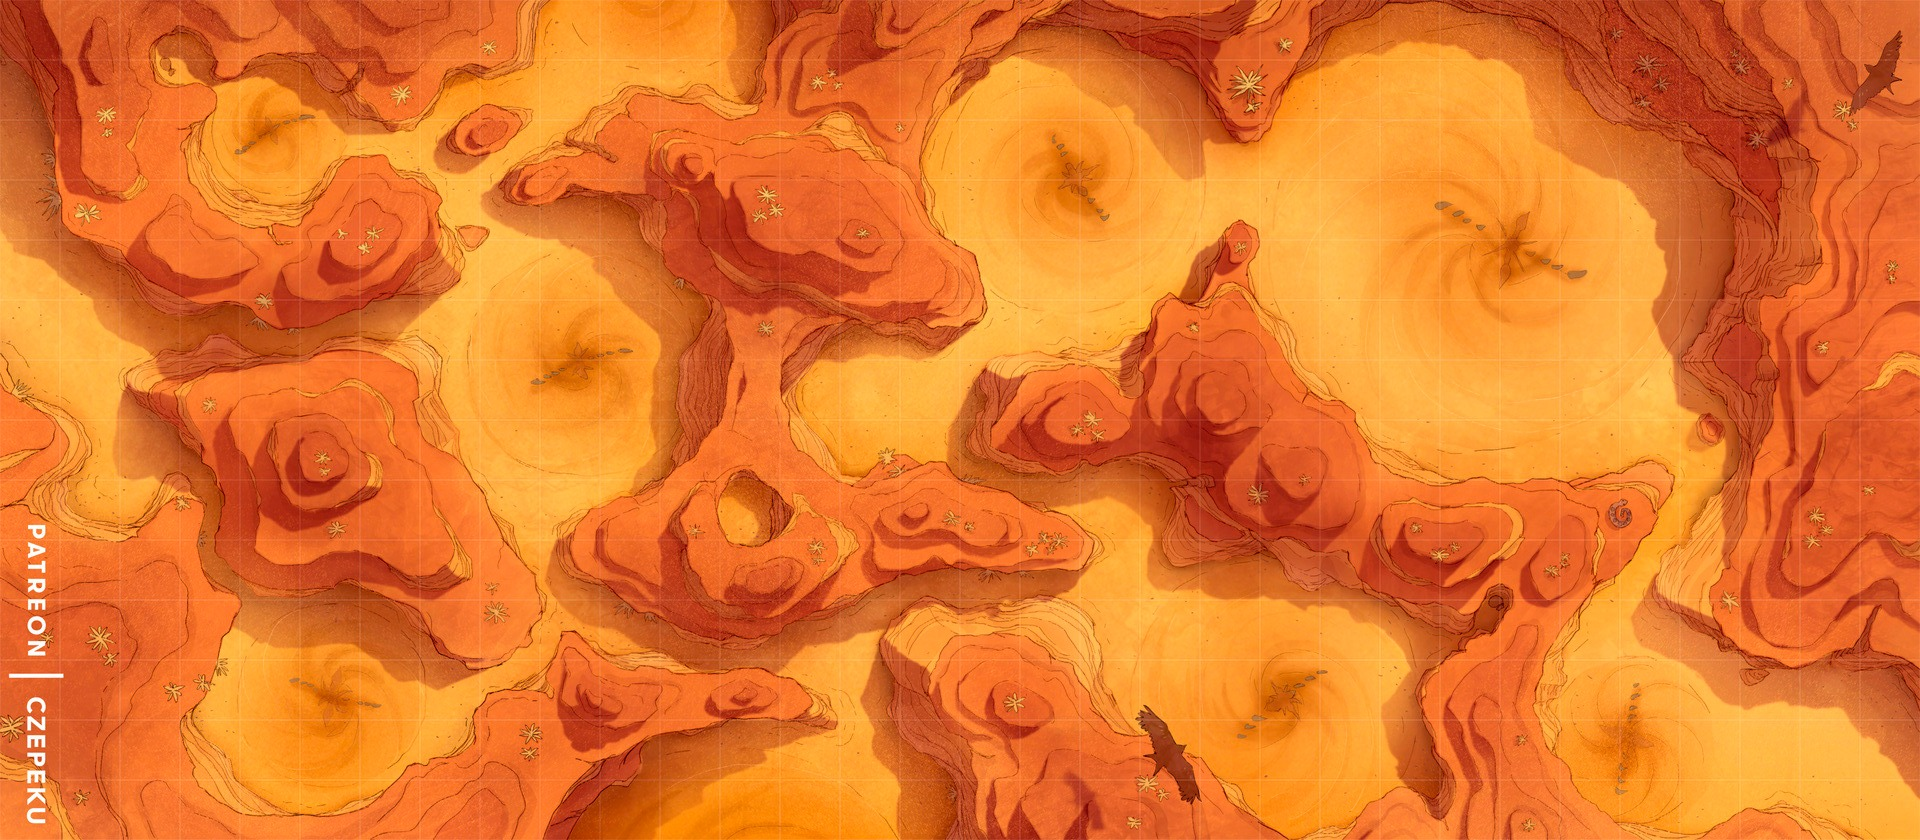
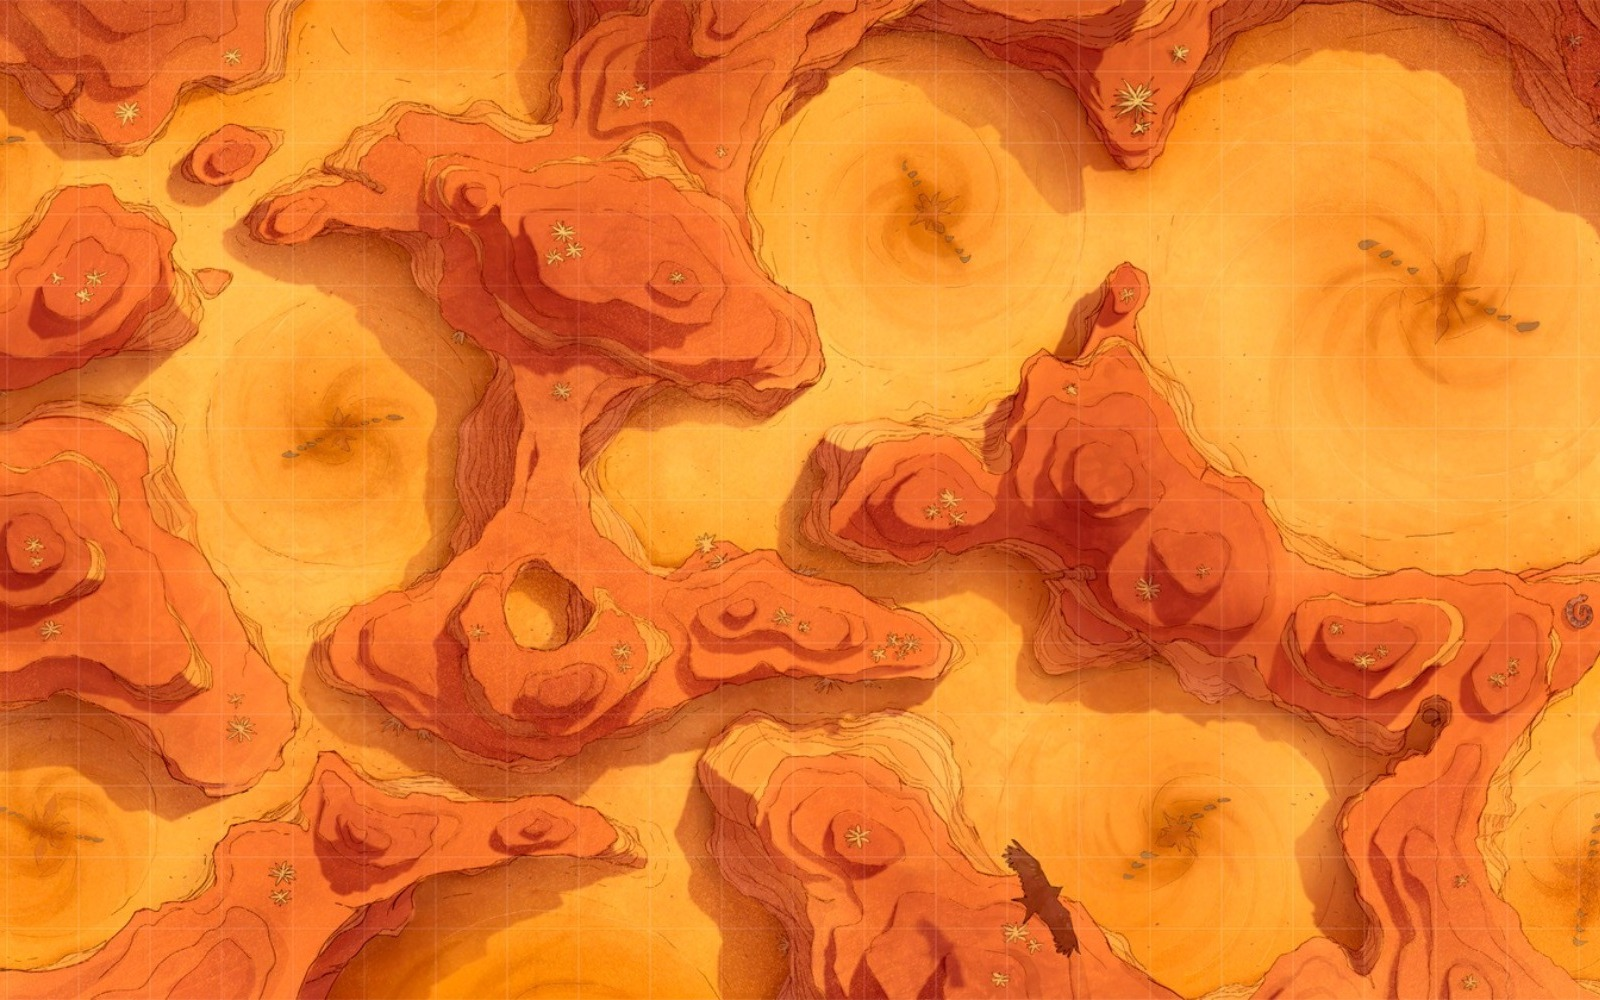
Update

diff --git a/environment.py b/environment.py
@@ -49,6 +49,7 @@ class Environment:
         pass
 
     def draw(self, win):
+        win.blit(self._image['Background'], (0, 0))
         interval = self._width / 8
         for row in range(8):
             for col in range(8):
@@ -81,10 +82,6 @@ class Desert(Environment):
 
     def create_map(self, nBoard):
         super().create_map(nBoard)
-
-        for x in range(8):
-            for y in range(8):
-                self._CellLayer[x][y].set_img(self._image['Normal'])
         return self._CellLayer
 
     def apply_env_effect(self, nBoard, turn, phase):

diff --git a/init.py b/init.py
@@ -50,7 +50,8 @@ listImage = {
     },
     'Desert': {
         'Normal':pygame.image.load('img\\Environment\\desert_normal.png'),
-        'Special':pygame.image.load('img\\Environment\\derest_special.png')
+        'Special':pygame.image.load('img\\Environment\\derest_special.png'),
+        'Background':pygame.image.load('img\\Environment\\desert_bg.jpg')
     },
     'Frozen_river':{
         'Normal':pygame.image.load('img\\Environment\\frozen_river_normal.png'),

diff --git a/main.py b/main.py
@@ -110,8 +110,8 @@ def updateGUI():
 
 def update_display(win, nboard, pos, turns, phase):
     WIN.fill('white')
-    ncard.draw(win, init.font40, pos, Players[turns%2])
     nboard.draw(win)
+    ncard.draw(win, init.font40, pos, Players[turns%2])
     if phase == chess.PHASE['Finish']:
         print('WIN')
         endGame()
